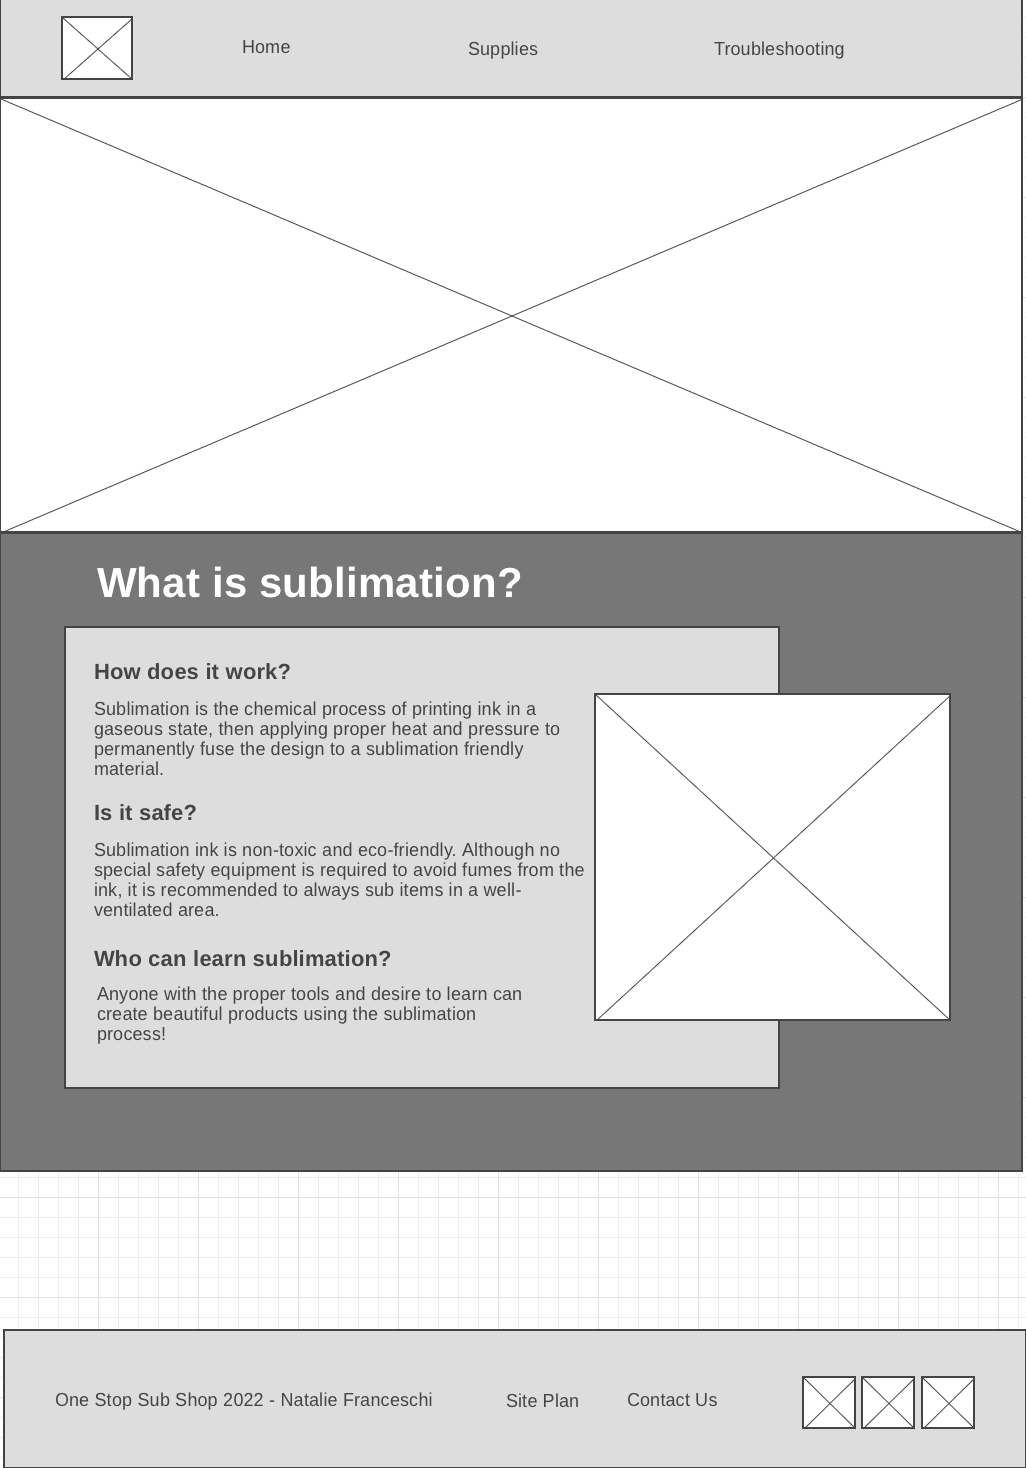
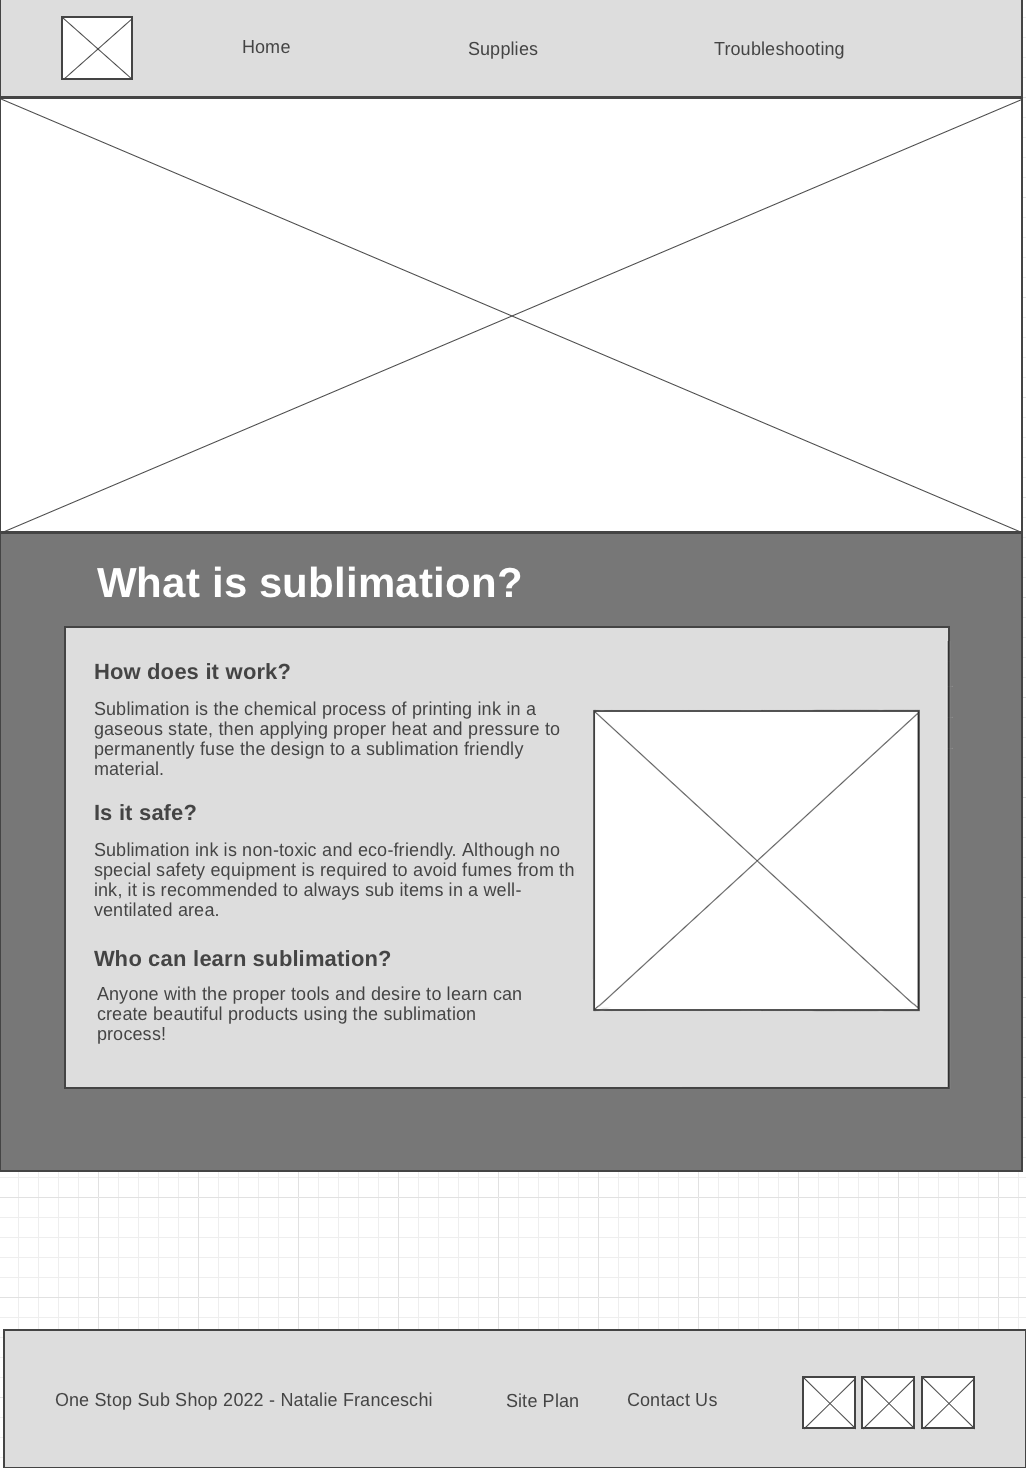
css added

diff --git a/onestopsubshop/index.html b/onestopsubshop/index.html
@@ -21,13 +21,14 @@
             </nav>
         </header>
         <div id="hero">
-            <img src="images/hero-banner.png" alt="image for homepage">
+            <img id="hero-img" src="images/hero-banner.png" alt="image for homepage">
         </div>
         <main class="home-grid">
             <div><h1>What is Sublimation?</h1></div>
-            <div id="home-background"></div>
-                <img class="home-img" src="images/smokey-tumbler.png" alt="Stainless Tumbler">                 
+            <div id="background"></div>
+    
                 <div class="home-box">  
+                    <img class="home-img" src="images/smokey-tumbler.png" alt="Stainless Tumbler">                  
                     <div class="how">
                         <h2>How does it work?</h2>
                         <p>Sublimation is the chemical process of printing ink in a gaseous state, then applying proper heat and pressure to permanently fuse the design to a sublimation friendly material. </p>
@@ -41,6 +42,7 @@
                         <p>Anyone with the proper tools and desire to learn can create beautiful products using the sublimation process!</p>
                     </div>
                 </div>
+            </div>    
         </main>
         <footer>
             <p>OneStopSubShop&copy; 2022 - Natalie Franceschi</p>
